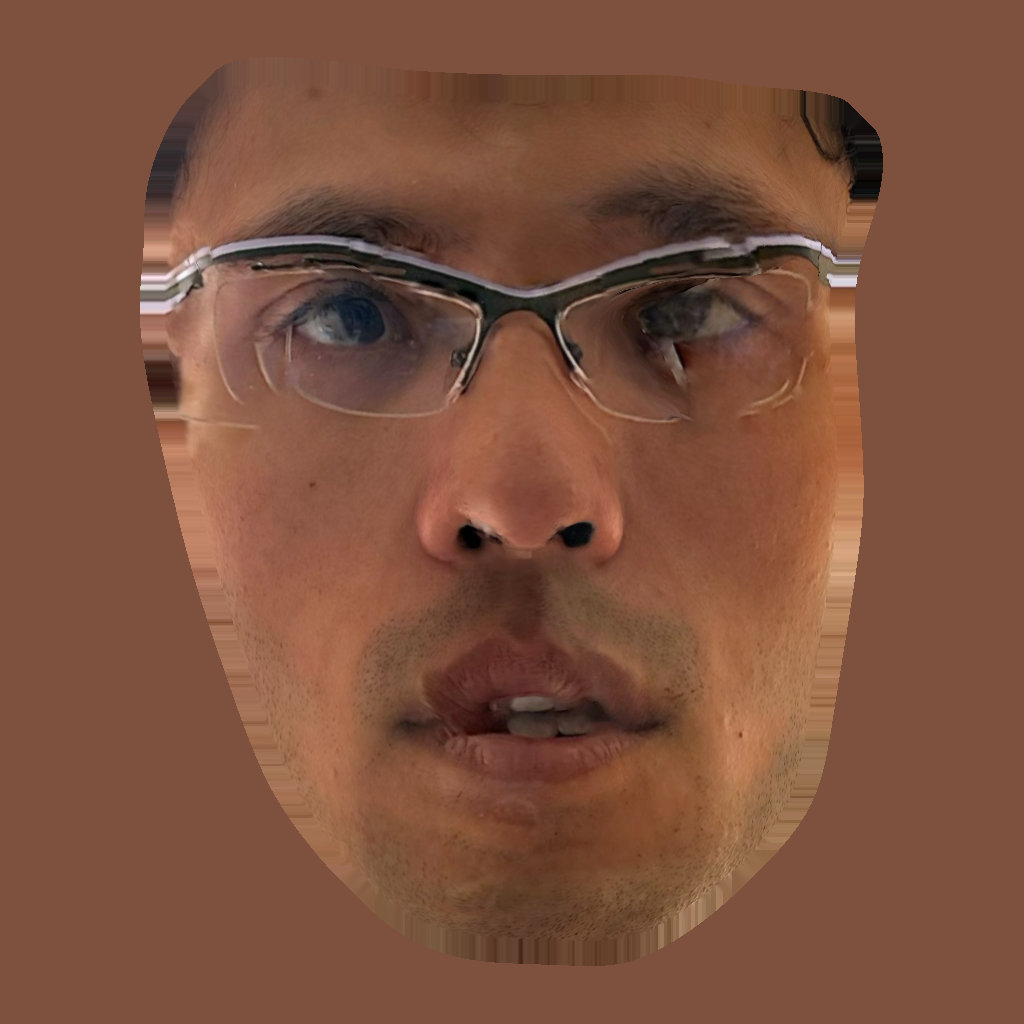
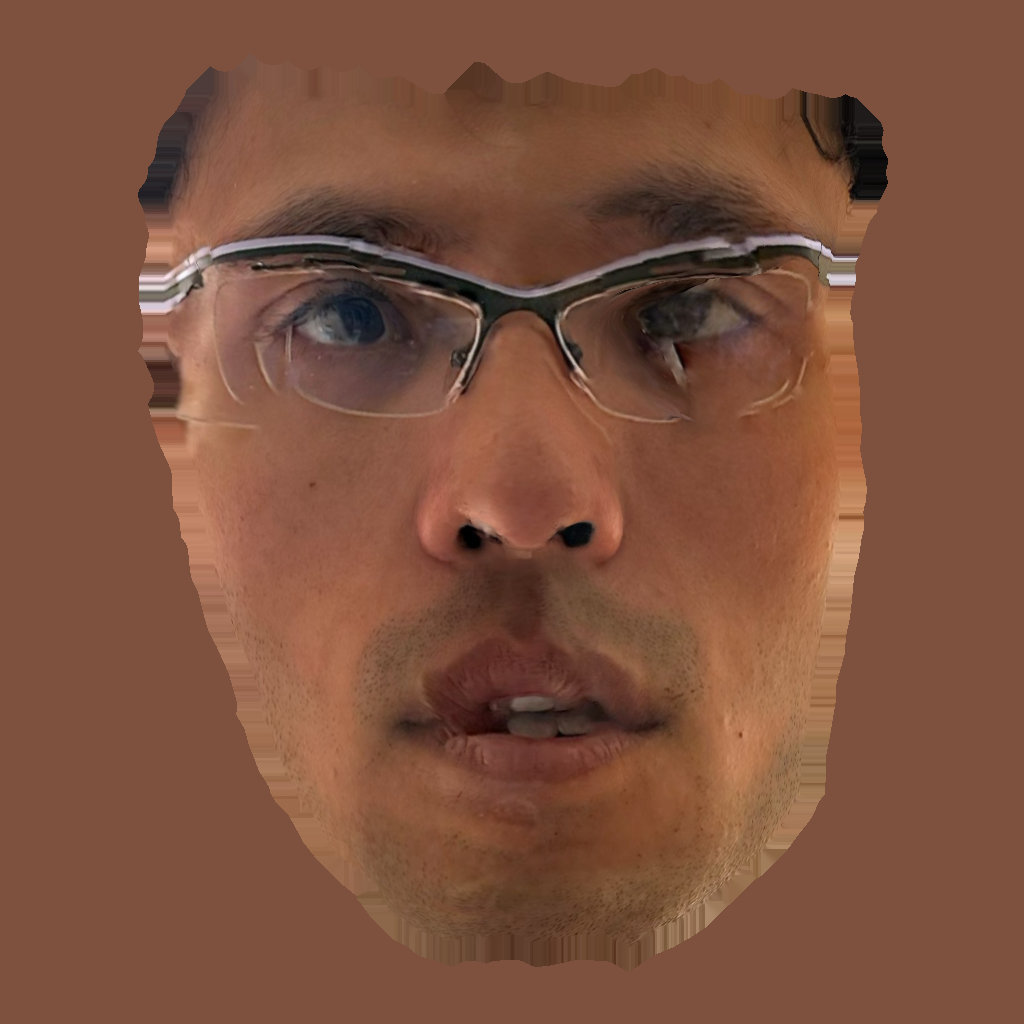
fix(headmap): keep the photo skin clear of the crop's true edge
The room guard measured its 0.05 L inset from the smoothed rim, which
strays up to 0.054 L from the crop's ragged edge, so photo texels reached
within 0.003 L of it — where the photo can show the room. It now measures
from the raw rim (0.050 L, printed on every run), and CLAUDE.md asks for a
look at the texture's rim before committing. Re-baked head-face.jpg.

diff --git a/scripts/headmap.ts b/scripts/headmap.ts
@@ -19,6 +19,7 @@ import {
   foldedTriangles,
   insideCrop,
   largestComponent,
+  rimSegments,
   vertexNeighbours,
   weldMap,
 } from "./headmap/mesh.ts";
@@ -225,9 +226,9 @@ const rimPoints = smoothRim(
   faceRim,
   flags.number("rim-smooth") ?? 20
 );
-const rim = new Float32Array(
-  faceRim.flatMap(([a, b]) => [rimPoints[a * 2], rimPoints[a * 2 + 1], rimPoints[b * 2], rimPoints[b * 2 + 1]])
-);
+const rim = rimSegments(rimPoints, faceRim);
+/** The crop's true, ragged edge: where the photo can show the room behind the face. */
+const rawRim = rimSegments(aligned.filter((_, i) => i % 3 !== 2), faceRim);
 const blend = { margin: (flags.number("margin") ?? 0.45) * headL, tolerance: (flags.number("tolerance") ?? 1.2) * headL };
 // The scan's front surface as a height field over its footprint, blurred: the transfer reads heights from it, so
 // the scan's folds (the glasses' lens over one eye) become slopes instead of cliffs, and its noise is calmed.
@@ -387,15 +388,19 @@ const photoGrid = new AxisRayGrid(photoAligned, photoCrop.indices, 2, headL / 25
 const skin = new Float32Array(TEXTURE_SIZE * TEXTURE_SIZE * 3);
 const onFace = new Uint8Array(TEXTURE_SIZE * TEXTURE_SIZE);
 const inset = 0.05 * headL; // keep clear of the crop's ragged edge, where the photo can show the room behind
+let closestToEdge = Infinity;
 for (let ty = 0; ty < TEXTURE_SIZE; ty++) {
   for (let tx = 0; tx < TEXTURE_SIZE; tx++) {
     const x = uvLeft + ((tx + 0.5) / TEXTURE_SIZE) * uvSide, y = uvTop - ((ty + 0.5) / TEXTURE_SIZE) * uvSide;
     const hit = photoGrid.front([x, y, headNose[2]]);
-    if (!hit || distanceToSegments2D(x, y, rim) < inset) continue;
+    if (!hit) continue;
+    const edge = distanceToSegments2D(x, y, rawRim);
+    if (edge < inset) continue;
     const [a, b, c] = [0, 1, 2].map((k) => photoCrop.indices[hit.triangle * 3 + k]);
     const [u, v] = interpolateCorners(photoUvs, 2, a, b, c, hit.u, hit.v);
     skin.set(sampleRgb(photo.data, photo.width, photo.height, u, v), (ty * TEXTURE_SIZE + tx) * 3);
     onFace[ty * TEXTURE_SIZE + tx] = 1;
+    closestToEdge = Math.min(closestToEdge, edge);
   }
 }
 const padded = dilate(skin, onFace, TEXTURE_SIZE, TEXTURE_SIZE, 24);
@@ -407,7 +412,7 @@ const faceJpeg = jpeg.encode({ data: rgba, width: TEXTURE_SIZE, height: TEXTURE_
 const faceTextureOut = out.replace(/\.glb$/, "") + "-face.jpg";
 console.log(
   `skin: ${pct(onFace.filter(Boolean).length, onFace.length)} of a ${TEXTURE_SIZE}² texture from the photo, ` +
-    `UVs span ${uvSide.toFixed(2)} head units`
+    `none closer than ${(closestToEdge / headL).toFixed(3)} L to the crop's edge; UVs span ${uvSide.toFixed(2)} head units`
 );
 
 // 9. Write: back to the stock scene space, quantised + meshopt like the stock file.

diff --git a/scripts/headmap/mesh.test.ts b/scripts/headmap/mesh.test.ts
@@ -8,6 +8,7 @@ import {
   foldedTriangles,
   insideCrop,
   largestComponent,
+  rimSegments,
   vertexNeighbours,
   weldMap,
 } from "./mesh.ts";
@@ -134,5 +135,12 @@ describe("foldedTriangles", () => {
 
   it("only counts the triangles the filter includes", () => {
     expect(foldedTriangles(positions, tris, (t) => t < 2)).toBe(0);
+  });
+});
+
+describe("rimSegments", () => {
+  it("packs each rim edge as x0, y0, x1, y1 from per-vertex x, y points", () => {
+    const points = new Float32Array([0, 0, 1, 0, 1, 2]);
+    expect([...rimSegments(points, [[0, 1], [1, 2]])]).toEqual([0, 0, 1, 0, 1, 0, 1, 2]);
   });
 });

diff --git a/scripts/headmap/mesh.ts b/scripts/headmap/mesh.ts
@@ -154,3 +154,8 @@ export function foldedTriangles(positions: Float32Array, indices: Uint32Array, i
   }
   return folded;
 }
+
+/** A mesh's rim as 2D segments packed x0, y0, x1, y1, from per-vertex x, y points. */
+export function rimSegments(points: Float32Array, edges: [number, number][]) {
+  return new Float32Array(edges.flatMap(([a, b]) => [points[a * 2], points[a * 2 + 1], points[b * 2], points[b * 2 + 1]]));
+}

diff --git a/CLAUDE.md b/CLAUDE.md
@@ -121,7 +121,7 @@ Defined in `src/audio/types.ts`, written each frame by `src/audio/frame.ts` (`wr
 `src/assets/head.glb` and `src/assets/head-face.jpg` are generated output: the stock "11091_FemaleHead" (`scripts/assets/base-head.glb`) with the owner's face shape and photo skin transferred onto it from a single-view phone capture. To take a new capture:
 
 1. Keep the capture outside the repo (it holds the owner's room and the full photo) and run `yarn headmap <capture.glb>`. It prints the landmarks it found (nose tip, chin, L), the alignment, how many head vertices moved and how much of the texture came from the photo; every run starts from the base head, so reruns never compound, and the same inputs (with the locked dependencies) give byte-identical files.
-2. Check the result on the site from several angles. `--debug <dir>` (refused inside the repo) writes `crop.glb` (the cropped capture with its photo), `aligned.glb`, `erased.glb` (the stock head with its own features erased) and a `weights.glb` blend map for a viewer.
+2. Open `head-face.jpg` and check its rim holds nothing but face (the run prints how close the photo comes to the crop's edge), then check the head on the site from several angles. `--debug <dir>` (refused inside the repo) writes `crop.glb` (the cropped capture with its photo), `aligned.glb`, `erased.glb` (the stock head with its own features erased) and a `weights.glb` blend map for a viewer.
 3. Tune with flags (`yarn headmap` alone prints them). Crop and blend sizes are in units of L, the nose-tip-to-chin height of each mesh, so they carry across capture scales; `--nose`/`--chin` override landmark detection when a capture confuses it. Bake flags you keep into the defaults in `scripts/headmap.ts`, so the no-flag run reproduces the committed files.
 
 The skin texture is re-baked from the photo only where the cropped face covers it (the rest is face colour dilated outward), so the room never ships; the raw capture and its original texture are never committed. The mesh keeps the stock file's conventions (one node, z up, face toward +y, stock units, meshopt + quantised positions/normals), which is what `prepareModel` in `Head` assumes, and adds front-projected `TEXCOORD_0` plus a per-vertex `_FACEWEIGHT` (1 on the face, 0 on the chrome); the material is set in code.
